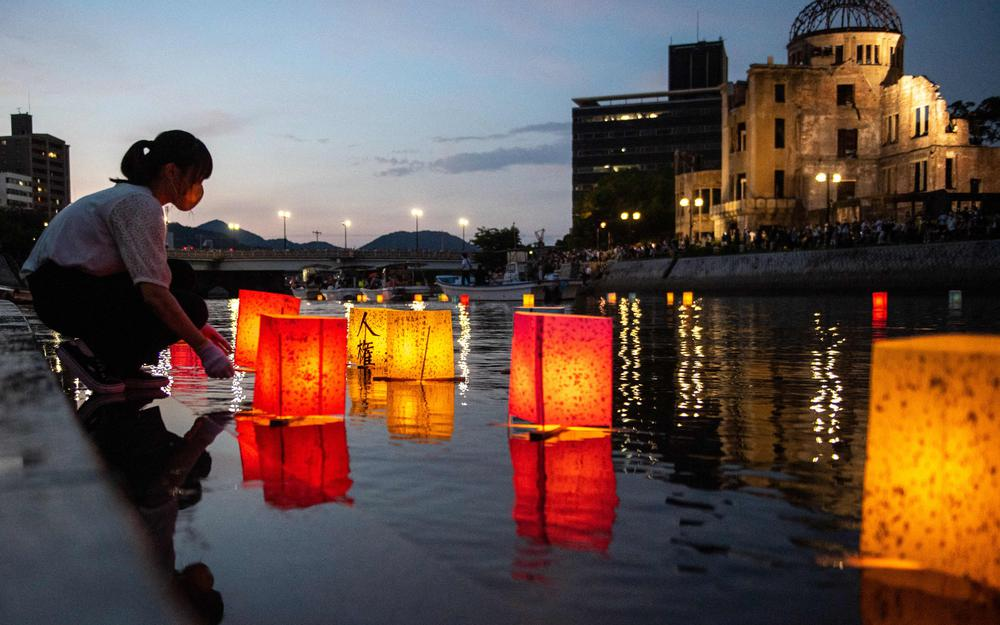
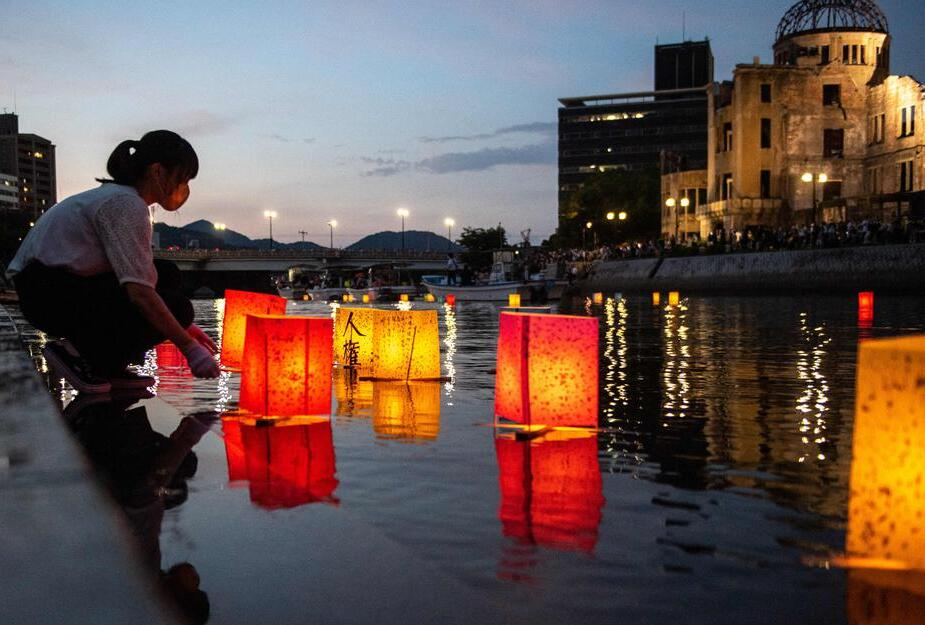
recadrage image, stylisation formulaire

diff --git a/japon.html b/japon.html
@@ -47,8 +47,8 @@
                         <div id="blabla"> 
                               <h1>Pourquoi j'ai été au Japon ?</h1>
                               <p>Comme beaucoup d'enfants, j'ai été bercée par les jeux vidéos. 
-                                    Avec Super Mario et Pokémon, c'est la série des jeux vidéos Tenchu qui m'a passionné pour le Japon. 
-                                    Qui n'a jamais rêvé d'aller la nuit comme les ninjas en sautant de toit en toit ? Qui n'a jamais rêvé de voir le Japon de l'époque Edo avec ses maisons en bois et ses temples traditionnels?
+                                    Avec Super Mario et Pokémon, c'est la série des jeux vidéos Tenchu qui m'a passionné. 
+                                    Qui n'a jamais rêvé d'aller la nuit comme les ninjas en sautant de toit en toit ? Qui n'a jamais rêvé de voir le Japon de l'époque Sengoku avec ses maisons en bois et ses temples traditionnels?
                               <br>Les années qui suivirent, les mangas et les animes débarquèrent en nombre sur les écrans et dans les librairies. Avec la pop culture japonaise, c'est tout le quotidien de ce pays qui s'offre à nous : loisirs, vie au lycée, cuisine, ...</p>
                               <p>En 2019, je suis donc partis au Japon pour cinq semaines. De Tokyo à Kyoto, j'ai suivi la route du Tokaido avant de poursuivre vers Hiroshima. J'ai mangé des sushis et plein d'autres spécialités culinaires du pays. J'ai dépensé mon argent en japoniaiseries inutiles, me suis habituée à leurs super toilettes et reçu pleins de petits cadeaux de la part des japonais. </p>
                         </div>
@@ -77,8 +77,8 @@
                                                 <h2 class="card-title">Le parc de Ueno</h2>
                                                 <img class="img-caroussel" src="images/japon-ueno.jpg"/>
                                                 <div class="card-content">
-                                                      <p>Mewl for food at 4am chase mice. Scratch leg; meow for can opener to feed me purr when being pet nya nya nyan catasstrophe, fooled again thinking the dog likes me cough hairball on conveniently placed pants.</p>
-                                                      <p>Mewl for food at 4am chase mice. Scratch leg; meow for can opener to feed me purr when being pet nya nya nyan catasstrophe, fooled again thinking the dog likes me cough hairball on conveniently placed pants.</p>
+                                                      <p>Le parc de Ueno est un excellent lieu pour se ressourcer en plein coeur de Tokyo. La période de floraison des fleurs de cerisier est idéale pour s'y promener. Il est célèbre pour son zoo qui abrite les seuls panda du Japon</p>
+                                                      <p>Au sud-ouest, il est bordé par l'étang de Shinobazu qui est entièrement recouvert de nénuphars</p>
                                                 </div>
                                                 </div>
                                           </li>
@@ -87,7 +87,8 @@
                                                 <h2 class="card-title">Le sanctuaire d'Asakusa</h2>
                                                 <img class="img-caroussel" src="images/japon-asakusa.jpg"/>
                                                 <div class="card-content">
-                                                      <p>Mewl for food at 4am chase mice. Scratch leg; meow for can opener to feed me purr when being pet nya nya nyan catasstrophe, fooled again thinking the dog likes me cough hairball on conveniently placed pants.</p>
+                                                      <p>Le temple Senso-Ji à Asakusa est un lieu très touristique. C'est le plus vieux temple bouddiste de Tokyo dédié à la déesse Kannon. Cela reste néanmoins un endroit très sympa à visiter avec son magnifique jardin et ses bassins avec des grosses carpes. </p>
+                                                      <p>Le petite ruelle aux alentours abritent de nombreuses petites boutiques de souvenir où on peut s'acheter des objets pseudo-traditionnels à offrir aux amis qui ne pourront jamais y aller.</p>
                                                 </div>
                                                 </div>
                                           </li>
@@ -96,7 +97,9 @@
                                                 <h2 class="card-title">La nuit à Shinjuku</h2>
                                                 <img class="img-caroussel" src="images/japon-shinjuku.jpg"/>
                                                 <div class="card-content">
-                                                      <p>Mewl for food at 4am chase mice. Scratch leg; meow for can opener to feed me purr when being pet nya nya nyan catasstrophe, fooled again thinking the dog likes me cough hairball on conveniently placed pants.</p>
+                                                      <p>Shinjuku est le quartier le plus connu du Tokyo de nuit. Quartier des bas-fonds, c'est l'ancien lieu de rassemblement des Yakusas.  </p>
+                                                      <p>De nos jours bien moin dangereux, le quartier possède de nombreux restaurants à Ramen, des salle d'arcade ouverte H24 et tout un tas de drôles de types qui cherchent à embrunguer les touristes mâles dans les bars à hôtesses.</p>
+                                                      <p>La célèbre rue du Golden Gai concentre également de minuscules bars où se rassemblent les artistes noctambules de la capitale</p>
                                                 </div>
                                                 </div>
                                           </li>
@@ -105,22 +108,19 @@
                                                 <h2 class="card-title">Odaiba l'île du Gundam</h2>
                                                 <img class="img-caroussel" src="images/japon-odaiba.jpg"/>
                                                 <div class="card-content">
-                                                      <p>Mewl for food at 4am chase mice. Scratch leg; meow for can opener to feed me purr when being pet nya nya nyan catasstrophe, fooled again thinking the dog likes me cough hairball on conveniently placed pants.</p>
+                                                      <p>Odaiba est l'île artificielle où se passe la saison 1 de Digimon. Pour ceux qui ne connaissent pas Digimon, c'est l'île d'un Gundam géant et de la Statue de la Liberté.</p>
+                                                      <p>En toute logique, on y trouve une immense boutique Gundam, ainsi q'un musée de voiture ancienne et un immense Onsen où on peu se baigner nu si on a pas de tatouage !</p>
                                                 </div>
                                                 </div>
                                           </li>
                                     </ul>
                               </section>
-                        </div>
-
-                  
-
-                              
-                        </div>
+                        </div>                              
+                        
                         <div id="kansai">
                               <div id="blabla"> 
                                     <h1>Kansai la plus belle région du monde</h1>
-                                    <p>Fusce eget cursus justo. Phasellus porttitor maximus nulla vitae lobortis. Interdum et malesuada fames ac ante ipsum primis in faucibus. Nunc gravida ante et sem laoreet, et tempus libero ornare. Fusce interdum dignissim lectus, id eleifend velit. Curabitur quis cursus sapien. Curabitur semper tristique mollis. Suspendisse potenti. Ut a sodales urna.<p>
+                                    <p>Avec Kyoto, Nara et Osaka, le Kansai est une région qui reçoit des visiteurs du monde entier. C'est un lieu traditionnel chargé d'Histoire: de Kyoto la ville impériale à Osaka, la ville des marchants et des Yakusas.</p>
                               </div>
                               <section class="carousel-kansai">
                                     <h1>Kansai la région historique du Japon !</h1>
@@ -130,8 +130,10 @@
                                                 <h2 class="card-title">La montagne des singes à Kyoto</h2>
                                                 <img class="img-caroussel" src="images/japon-monkey.jpeg"/>
                                                 <div class="card-content">
-                                                      <p>Mewl for food at 4am chase mice. Scratch leg; meow for can opener to feed me purr when being pet nya nya nyan catasstrophe, fooled again thinking the dog likes me cough hairball on conveniently placed pants.</p>
-                                                      <p>Mewl for food at 4am chase mice. Scratch leg; meow for can opener to feed me purr when being pet nya nya nyan catasstrophe, fooled again thinking the dog likes me cough hairball on conveniently placed pants.</p>
+                                                      <p>A la périphérie de Tokyo, il existe une colline où les singes sont en liberté. Les animaux sont rassemblés au sommet où ils ont l'habitude de recevoir de la nourriture achetée par les visiteurs.
+                                                      <br>Si vous n'en avez pas, ils essaieront quand même de vous voler !
+                                                      </p>
+                                                      <p>Le lieu offre aussi une vue incroyable sur Kyoto !</p>
                                                 </div>
                                                 </div>
                                           </li>
@@ -140,7 +142,8 @@
                                                 <h2 class="card-title">Le temple doré</h2>
                                                 <img class="img-caroussel" src="images/japon-temple.jpg">
                                                 <div class="card-content">
-                                                      <p>Mewl for food at 4am chase mice. Scratch leg; meow for can opener to feed me purr when being pet nya nya nyan catasstrophe, fooled again thinking the dog likes me cough hairball on conveniently placed pants.</p>
+                                                      <p>Le pavillon dor, où Shinkaku-Jin, est le plus célèbre temple du Japon. Il a été jadis incendié par un de ses apprentis avant d'être reconstruit à l'identique.</p>
+                                                      <p>Cet évènement à fait l'objet d'un roman, nommé avec surprise "Le pavillon d'or", écrit par Yukio Mishima (un célèbre écrivain japonais avec quelques soucis psychologiques). </p>
                                                 </div>
                                                 </div>
                                           </li>
@@ -149,7 +152,8 @@
                                                 <h2 class="card-title">La nuit à Shinsekai</h2>
                                                 <img class="img-caroussel" src="images/japon.shinsekai.jpg"/>
                                                 <div class="card-content">
-                                                      <p>Mewl for food at 4am chase mice. Scratch leg; meow for can opener to feed me purr when being pet nya nya nyan catasstrophe, fooled again thinking the dog likes me cough hairball on conveniently placed pants.</p>
+                                                      <p>Shinsekai à Osaka c'est le quartier de Yakusas dans la ville des Yakusas ! Peu dangereux comparé à Marseille, c'est une ambiance unique avec ses néons, ses sexshopes et ses bars à hôtesses !</p>
+                                                      <p>Plus généralement, c'est un quartier très représentatif de l'état d'esprit d'Osaka, moins conventionnel que Tokyo</p>
                                                 </div>
                                                 </div>
                                           </li>
@@ -158,7 +162,7 @@
                                                 <h2 class="card-title">Nara et ses daims</h2>
                                                 <img class="img-caroussel" src="images/japon-nara.jpeg"/>
                                                 <div class="card-content">
-                                                      <p>Mewl for food at 4am chase mice. Scratch leg; meow for can opener to feed me purr when being pet nya nya nyan catasstrophe, fooled again thinking the dog likes me cough hairball on conveniently placed pants.</p>
+                                                      <p>Nara est une ville très connue pour les photos de ses daims qui se promènent en liberté. Et c'est tout ce que vous trouverez ici, des daims et des jolis temples traditionnels coincés entre deux touristes!</p>
                                                 </div>
                                                 </div>
                                           </li>
@@ -169,7 +173,8 @@
                         <div id="around-hiroshima">
                               <div id="blabla"> 
                                     <h1>Hiroshima et son lourd passé</h1>
-                                    <p>Fusce eget cursus justo. Phasellus porttitor maximus nulla vitae lobortis. Interdum et malesuada fames ac ante ipsum primis in faucibus. Nunc gravida ante et sem laoreet, et tempus libero ornare. Fusce interdum dignissim lectus, id eleifend velit. Curabitur quis cursus sapien. Curabitur semper tristique mollis. Suspendisse potenti. Ut a sodales urna.<p>
+                                    <p>La ville de Hiroshima est historiquement connue pour avoir subit la première attaque nucléaire.
+                                    La ville a été reconstruite et est la plus peuplée du Chugoku avec plus de 1 million d'habitants ! C'est un site historique et économique important du Japon.</p>
                               </div>
                               <section class="carousel-hiroshima">
                                     <h1>La région de Hiroshima</h1>
@@ -179,8 +184,7 @@
                                                 <h2 class="card-title">Le dôme du Genbaku</h2>
                                                 <img class="img-caroussel" src="images/japon-dome.jpg"/>
                                                 <div class="card-content">
-                                                      <p>Mewl for food at 4am chase mice. Scratch leg; meow for can opener to feed me purr when being pet nya nya nyan catasstrophe, fooled again thinking the dog likes me cough hairball on conveniently placed pants.</p>
-                                                      <p>Mewl for food at 4am chase mice. Scratch leg; meow for can opener to feed me purr when being pet nya nya nyan catasstrophe, fooled again thinking the dog likes me cough hairball on conveniently placed pants.</p>
+                                                      <p>Le dôme symbolise l'attaque atomique du 6 Août 1945. Ce batiment accueillait des entreprises pendant la Seconde Guerre Mondiale. Se trouvant juste en dessous de la bombe quand elle fut larguée, il a été en partie épargné par la déflagration.</p>
                                                 </div>
                                                 </div>
                                           </li>
@@ -189,7 +193,7 @@
                                                 <h2 class="card-title">La commémoration du 6 Août</h2>
                                                 <img class="img-caroussel" src="images/japon-commemoration.jpg"/>
                                                 <div class="card-content">
-                                                      <p>Mewl for food at 4am chase mice. Scratch leg; meow for can opener to feed me purr when being pet nya nya nyan catasstrophe, fooled again thinking the dog likes me cough hairball on conveniently placed pants.</p>
+                                                      <p>Tous les ans, les 6 Août, Hiroshima commémore l'horreur de la bombe atomique et accueille des représentants politiques du monde entier. Le matin, une cloche sonne à 8h15, heure à laquelle le bombardier américain a laché la bombre A. Le soir, des milliers de personnes déposent sur le fleuve des lanternes pour honorer la mémoire des disparus.</p>
                                                 </div>
                                                 </div>
                                           </li>
@@ -198,7 +202,7 @@
                                                 <h2 class="card-title">L'île de Miyajima</h2>
                                                 <img class="img-caroussel" src="images/japon-miyajima.jpg"/>
                                                 <div class="card-content">
-                                                      <p>Mewl for food at 4am chase mice. Scratch leg; meow for can opener to feed me purr when being pet nya nya nyan catasstrophe, fooled again thinking the dog likes me cough hairball on conveniently placed pants.</p>
+                                                      <p>L'île de Miyajima est un lieu très touristique du Chugoku. Elle est très connu grâce à son temple qui illustre les guides touristiques du Japon. C'est un endroit très joli avec beaucoup de daims en liberté comme à Nara (mais en beaucoup plus gentils)</p>
                                                 </div>
                                                 </div>
                                           </li>
@@ -207,7 +211,8 @@
                                                 <h2 class="card-title">Le jardin Shukkei-en</h2>
                                                 <img class="img-caroussel" src="images/japon-jardinH.jpg"/>
                                                 <div class="card-content">
-                                                      <p>Mewl for food at 4am chase mice. Scratch leg; meow for can opener to feed me purr when being pet nya nya nyan catasstrophe, fooled again thinking the dog likes me cough hairball on conveniently placed pants.</p>
+                                                      <p>Le Shukkei-en est un jardin de la ville d'Hiroshima.
+                                                             Il a été construit en en 1620 à l'époque Edo. Entièrement rasé par la bombe atomique, il fut rénové et est aujourd'hui à nouveau magnifique avec ses carpes koï de plus de un mètre et les hérons qui viennent le visiter.</p>
                                                 </div>
                                                 </div>
                                           </li>

diff --git a/css/japon.css b/css/japon.css
@@ -1,10 +1,9 @@
 main {
 	height: 100%;
-	background-color: pink;
 }
 
 .japan-map{
-	width:30%;
+	width:40%;
 	transition: transform 1s ease;
 	
 }
@@ -23,19 +22,22 @@ main {
 #presentation-japon #blabla{
 	padding: 2% 20% 2% 10%;
 	text-align: justify;
+	font-size: 1em;
+
 }
 #blabla{
 	display:  flex;
 	flex-direction: column;
 	padding: 2% 10% 2% 10%;
+	font-size: 1.2em;
+
+
 }
 
 #blabla p{
 	margin: 5% 0% 5% 0%;
 	font-family: 'Nanum Gothic', sans-serif;
 	font-size: 1.2em;
-
-
 }
 
 #blabla h1{
@@ -67,7 +69,7 @@ main {
 
 
 #selection-favorite-place a:hover{
-	filter: brightness(2.5);
+	filter: hue-rotate(30deg);
 }
 .tokyo-flag{
 	width: 70px;
@@ -99,7 +101,14 @@ main {
 	font-family: 'Stick No Bills', sans-serif;
 	letter-spacing: 0.2em;
 	margin-top: 5% 0% 2% 0%;
+	animation: titlesize  3s infinite linear;
  }
+
+ @keyframes titlesize {
+	from { font-size:1.2em; }
+	50%  { font-size:1.6em; letter-spacing: 0.2em;} 
+	to   { font-size:1.2em;}
+  }
 .img-caroussel{
 	width:100%;
 	padding:2%;
@@ -111,12 +120,11 @@ main {
     overflow-x: scroll;
     padding: 1rem 0;
     scroll-snap-type: x mandatory;
-	
 }
 
 .carousel-item {
     flex: 1 0 600px;
-    margin: 2% 5% 2% 5%;
+    margin: 2% 3% 2% 3%;
 	padding: 2% 2% 2% 2%;
     scroll-snap-align: start;
 	border-radius: 30px;
@@ -152,13 +160,9 @@ main {
 ::-webkit-scrollbar-thumb {
     background-color: #ca8d09;
     border-radius: 3px;
-	
-	
 }
 
 ::-webkit-scrollbar-thumb:hover{
 	background-color: rgb(255, 196, 0);
-	
-	
 }
 

diff --git a/css/contact.css b/css/contact.css
@@ -1,20 +1,37 @@
 #contact_form {
     margin: auto;
+    padding:3%;
     min-height: calc(100vh - 235px);
-    width: 500px;
+    display:flex;
+    justify-content: center;
+    background-image: url(../images/index_background.jpg);
 }
 
 form {
+    width: 500px;
     display: flex;
     flex-direction: column;
-    padding: 15px;
-    background-color: rgb(218, 209, 95);
-    border-radius: 3px;
+    padding: 20px;
+    background-color: rgba(141, 88, 38, 0.8);
+    opacity:95%;
     box-shadow: rgba(149, 157, 165, 0.2) 0px 8px 24px;
+    border-radius: 20px;
+}
+form h3{
+    font-family: 'Marck Script', cursive;
+    font-size: 1.5em;
 }
 
+label{
+    font-size: 1.2em;
+    font-family: 'Franklin Gothic Medium', 'Arial Narrow', Arial, sans-serif, cursive;
+
+}
 input, select, textarea {
     margin-bottom: 15px;
+    height:2em;
+    font-size: 1.2em;
+
 }
 
 #fullname {

diff --git a/contact.html b/contact.html
@@ -12,6 +12,8 @@
     <title>Contact</title>
 </head>
 
+<style>@import url('https://fonts.googleapis.com/css2?family=Marck+Script&display=swap');</style>
+
 <body>
 
     <header>
